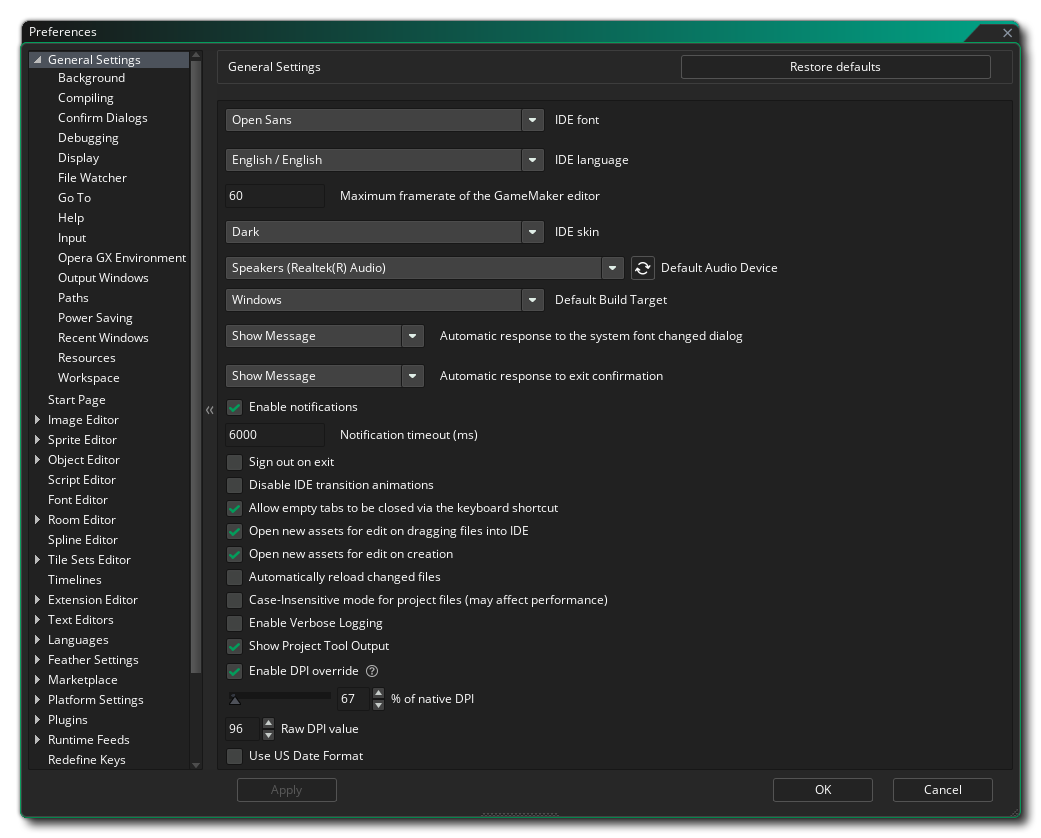
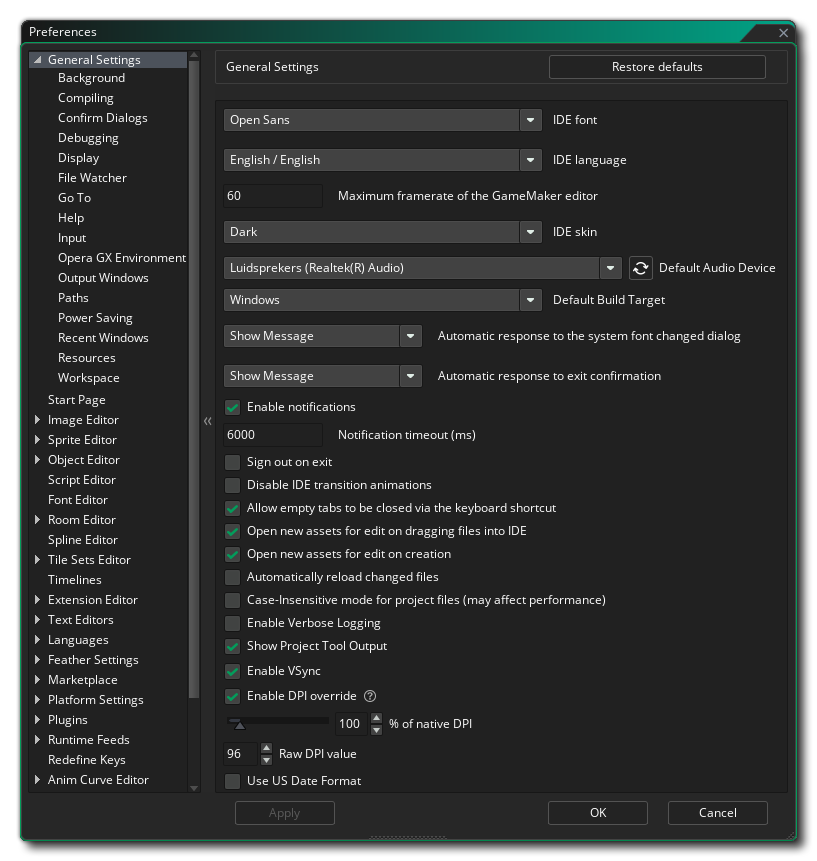
docs(feature): Add a new Preference to toggle VSync within the IDE YoYoGames/GameMaker-Bugs#6533
* Listed the new preference on the General Preferences manual page and updated the screenshot
* Slight update of the display_reset() function page, fixed the comparison in the code example's "if" check

(cherry picked from commit 48f17fd8ebdf9d4f9d900b0fa205af7f8ed319fb)

diff --git a/Manual/contents/GameMaker_Language/GML_Reference/Cameras_And_Display/display_reset.htm b/Manual/contents/GameMaker_Language/GML_Reference/Cameras_And_Display/display_reset.htm
@@ -4,7 +4,7 @@
 <head>
   <meta http-equiv="Content-Type" content="text/html; charset=utf-8" />
   <title>display_reset</title>
-  <meta name="generator" content="Adobe RoboHelp 2020" />
+  <meta name="generator" content="Adobe RoboHelp 2022" />
   <link rel="stylesheet" href="../../../assets/css/default.css" type="text/css" />
   <script src="../../../assets/scripts/main_script.js" type="module"></script>
   <meta name="rh-authors" content="Mark Alexander" />
@@ -14,14 +14,15 @@
 </head>
 <body>
   <!--<div class="body-scroll" style="top: 150px;">-->
-  <h1>display_reset</h1>
-  <p>This function Resets the display settings to the ones that were set when the game was started, but also allows you to change the current level of full screen anti-aliasing being used and whether to use vertical synchronisation. The available anti-aliasing levels are 0,2,4 and 8, with the default startup value being set to 0, and the default v-sync setting is false (off). Switching v-sync on may give a smoother gaming experience but it will also need more processing power and so its impact must be considered careful before use, and the same goes for the anti-aliasing where the higher the number the more processing that is required.</p>
-  <p>Since not all target devices are the same, some may not support 8x or 4x anti-aliasing for example, and so there is a <b>read only</b> variable available for getting the different levels of AA that the device running the game can display:</p>
+  <h1><span data-field="title" data-format="default">display_reset</span></h1>
+  <p>This function resets the display settings to the ones that were set when the game was started and also allows you to change the current level of fullscreen anti-aliasing being used and whether to use vertical synchronisation.</p>
+  <p>The available anti-aliasing levels are 0, 2, 4 and 8, with the default startup value being set to 0, and the default v-sync setting to <span class="inline2">false</span> (off). Switching v-sync on may give a smoother gaming experience but it will also need more processing power and so its impact must be carefully considered before use, and the same goes for the anti-aliasing where the higher the number the more processing that is required.</p>
+  <p>Since not all target devices are the same, some may not support 8x or 4x anti-aliasing for example, and so there is a <b>read-only</b> variable available for getting the different levels of AA that the device running the game can display:</p>
   <p class="code">display_aa</p>
-  <p>This variable will return an integer value based on the setting of bits for the different levels. So for only 2xAA, this will report 2, for 2x and 4x availability it will report 6. For 8 and 4 it will report 12. For all 3 levels (2,4 and 8) it will report 14.</p>
+  <p>This variable stores an integer value based on the setting of bits for the different levels. So for only 2xAA, this will report 2, for 2x and 4x availability it will report 6. For 8 and 4 it will report 12. For all 3 levels (2, 4 and 8) it will report 14.</p>
   <p> </p>
   <h4>Syntax:</h4>
-  <p class="code">display_reset(aa, vsync);</p>
+  <p class="code"><span data-field="title" data-format="default">display_reset</span>(aa, vsync);</p>
   <table>
     <tbody>
       <tr>
@@ -31,37 +32,36 @@
       </tr>
       <tr>
         <td>aa</td>
-        <td><span data-keyref="Type_Real">Real</span></td>
+        <td><span data-keyref="Type_Real"><a href="../../GML_Overview/Data_Types.htm" target="_blank">Real</a></span></td>
         <td>The level of anti-aliasing filtering (0, 2, 4 or 8).</td>
       </tr>
       <tr>
         <td>vsync</td>
-        <td><span data-keyref="Type_Bool">Boolean</span></td>
-        <td>Toggle vertical synchronisation to on (true) or off (false).</td>
+        <td><span data-keyref="Type_Bool"><a href="../../GML_Overview/Data_Types.htm" target="_blank">Boolean</a></span></td>
+        <td>Toggle vertical synchronisation to on (<span class="inline2">true</span>) or off (<span class="inline2">false</span>).</td>
       </tr>
     </tbody>
   </table>
   <p> </p>
   <h4>Returns:</h4>
-  <p class="code"><span data-keyref="Type_Real">Real</span></p>
+  <p class="code"><span data-keyref="Type_Real"><a href="../../GML_Overview/Data_Types.htm" target="_blank">Real</a></span></p>
   <p> </p>
   <h4>Example:</h4>
-  <p class="code">if (display_aa &gt; 12)<br />
+  <p class="code">if (display_aa &gt;= 8)<br />
     {<br />
         display_reset(8, true);<br />
     }</p>
   <p>The above code will set the anti-aliasing level to 8 if supported and switch v-sync to on.</p>
   <p> </p>
   <p> </p>
-  <p> </p>
   <div class="footer">
     <div class="buttons">
       <div class="clear">
-        <div style="float:left">Back: <a href="Cameras_And_Display.htm">Cameras And Display</a></div>
-        <div style="float:right">Next: <a href="display_get_width.htm">display_get_width</a></div>
+        <div style="float:left">Back: <a data-xref="{title}" href="Cameras_And_Display.htm">Cameras And Display</a></div>
+        <div style="float:right">Next: <a data-xref="{title}" href="display_get_width.htm">display_get_width</a></div>
       </div>
     </div>
-    <h5><span data-keyref="Copyright Notice">© Copyright YoYo Games Ltd. 2022 All Rights Reserved</span></h5>
+    <h5><span data-keyref="Copyright Notice">© Copyright YoYo Games Ltd. 2024 All Rights Reserved</span></h5>
   </div>
   <!-- KEYWORDS
 display_reset

diff --git a/Manual/contents/Setting_Up_And_Version_Information/IDE_Preferences/General_Preferences.htm b/Manual/contents/Setting_Up_And_Version_Information/IDE_Preferences/General_Preferences.htm
@@ -34,8 +34,9 @@
     <li><strong>Open new assets for edit on creation</strong>: If this is checked, every time you create a new resource in <a data-xref="{title}" href="../../Introduction/The_Asset_Browser.htm">The Asset Browser</a>, the corresponding asset editor will be opened automatically. This is checked by default and un-checking it will mean that you have to manually open all newly created assets.</li>
     <li><strong>Automatically reload changed files</strong>: If this is checked, the IDE will automatically scan and check files to see if any of them have been changed outside of <span data-keyref="GameMaker Name">GameMaker</span> and reload them if they have.</li>
     <li><strong>Case-Insensitive mode for project files (may affect performance)</strong>: Intended to be used to avoid issues with filename case sensitivity on non-Windows devices (macOS and Linux). Such issues can happen when transferring projects from Windows to non-Windows systems, using Git with <a href="https://git-scm.com/docs/git-config#Documentation/git-config.txt-coreignoreCase">ignore case</a> enabled (which you should try disabling first) and/or renaming files only to change the case. This is disabled by default as it&#39;s a performance overhead and should not be required outside of the aforementioned cases.</li>
-    <li><strong>Enable Verbose Logging</strong> - This option enables verbose logging of network calls.</li>
-    <li><strong>Show Project Tool Output</strong> - When this option is checked, the <a data-xref="{text}" href="../../IDE_Tools/Project_Tool.htm#h">ProjectTool Output</a> window will be shown when you convert projects with <a data-xref="{title}" href="../../IDE_Tools/Project_Tool.htm">ProjectTool</a>.</li>
+    <li><strong>Enable Verbose Logging</strong>: This option enables verbose logging of network calls.</li>
+    <li><strong>Show Project Tool Output</strong>: When this option is checked, the <a data-xref="{text}" href="../../IDE_Tools/Project_Tool.htm#h">Project Tool Output</a> window will be shown when you convert projects with <a data-xref="{title}" href="../../IDE_Tools/Project_Tool.htm">Project Tool</a>.</li>
+    <li><strong>Enable VSync</strong>: This option enables or disables vertical synchronisation within the IDE. VSync is enabled by default, though you can disable it using this setting if you&#39;re experiencing screen flickering with the IDE open. Note that any change to this setting requires a restart of the IDE.</li>
     <li><strong>Enable DPI Override</strong>: This option lets you override the default DPI setting with your own. You must first enable the option and then set either the <strong>Raw DPi Override</strong> value (the default value is 96) or set the <strong>Percentage of the native DPi</strong> (default value 100%), and once changed you will be prompted to restart the IDE, which may require you to save any work being done on the currently open project. Note that the DPi has a minimum percentage of 50% and a maximum of 500%, and if you you mouse over the information icon you can see the recommended maximum setting for the display being used:<br />
       <br />
       <img alt="General DPi Override Recommendation" class="center" src="../../assets/Images/Setup_And_Version/Preferences/General_DPi_Override_Recomendation.png" />Note that if you go above the recommended DPi setting for the monitor, you will be shown a notification that permits you to reset the DPI.
@@ -69,7 +70,7 @@
         <div style="float:right">Next: <a href="Start_Screen_Preferences.htm">Start Screen Preferences</a></div>
       </div>
     </div>
-    <h5><span data-keyref="Copyright Notice">© Copyright YoYo Games Ltd. 2023 All Rights Reserved</span></h5>
+    <h5><span data-keyref="Copyright Notice">© Copyright YoYo Games Ltd. 2024 All Rights Reserved</span></h5>
   </div>
   <!-- KEYWORDS
 Preferences - General
